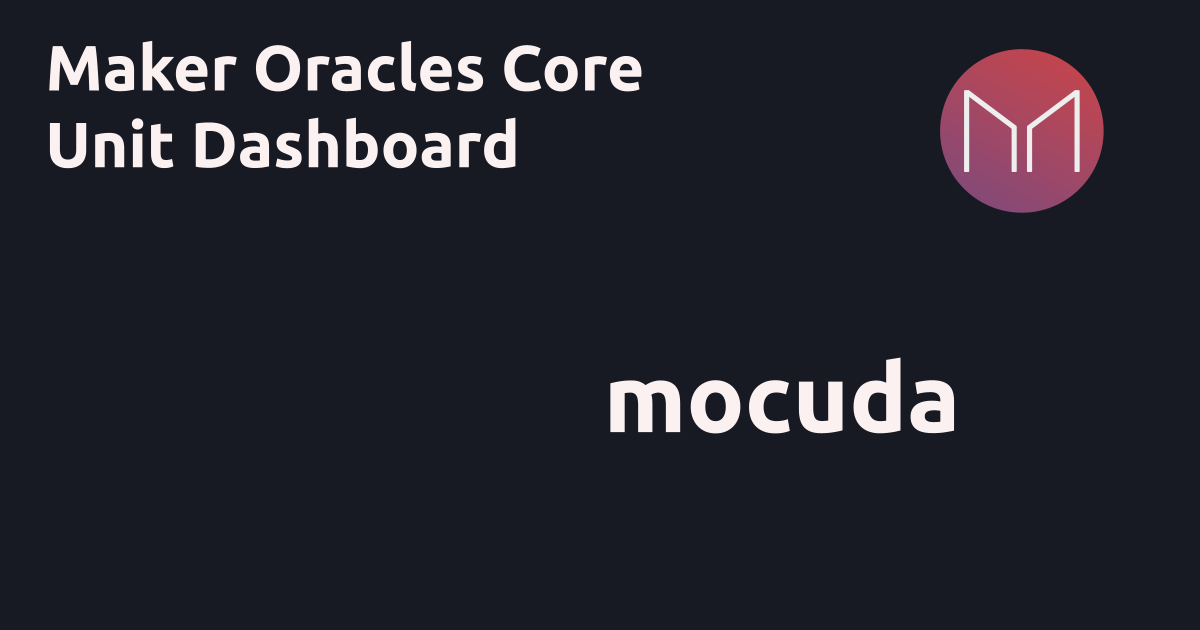
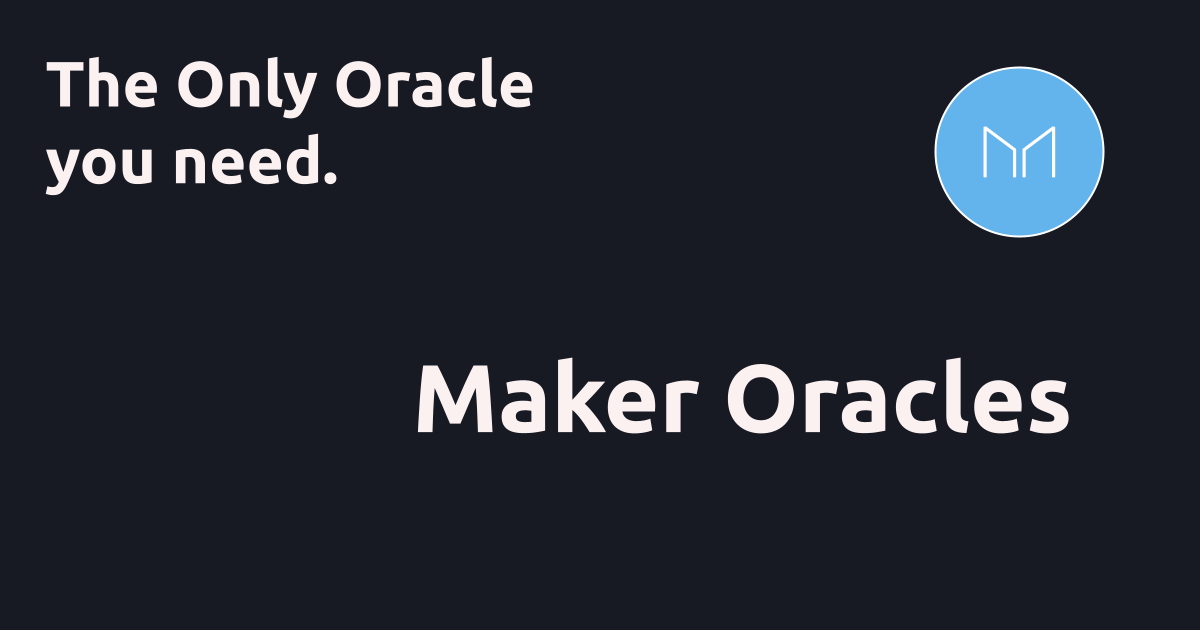
feat(fe): improve colors (#29)

Changed region(s): [[0.0308, 0.0603, 0.555, 0.3317], [0.3392, 0.573, 0.8942, 0.6937], [0.7708, 0.0603, 0.925, 0.3921]]

diff --git a/frontend/index.html b/frontend/index.html
@@ -2,9 +2,9 @@
 <html lang="en">
 	<head>
 		<meta charset="UTF-8" />
-		<link rel="icon" type="image/webp" href="/logo.webp" />
+		<link rel="icon" type="image/webp" href="/logo100.webp" />
 		<meta name="viewport" content="width=device-width, initial-scale=1.0" />
-		<title>MOCUDA</title>
+		<title>Maker Oracles</title>
 
 		<!-- 
         ==========================
@@ -12,37 +12,31 @@
         ==========================
         -->
 		<meta name="robots" content="index, follow" />
-		<meta name="title" content="Maker Oracles Core Unit Dashboard" />
+		<meta name="title" content="Maker Oracles" />
 		<meta
 			name="keywords"
-			content="ethereum, dai, maker, ocu, oracles, ethusd"
+			content="ethereum, dai, maker, ocu, oracles, ethusd, mainnet"
 		/>
 		<meta name="author" content="urbanisierung.eth" />
 		<meta name="publisher" content="urbanisierung.eth" />
 		<meta name="copyright" content="urbanisierung.eth" />
 		<meta name="audience" content="Everyone" />
-		<meta name="description" content="Maker Oracles Core Unit Dashboard" />
+		<meta name="description" content="Maker Oracles | The Only Oracle" />
 
 		<!-- OPEN GRAPH -->
 		<meta property="og:type" content="website" />
 		<meta property="og:url" content="https://mocuda.pages.dev" />
-		<meta property="og:title" content="Maker Oracles Core Unit Dashboard" />
-		<meta
-			property="og:description"
-			content="Maker Oracles Core Unit Dashboard"
-		/>
+		<meta property="og:title" content="Maker Oracles" />
+		<meta property="og:description" content="Maker Oracles | The Only Oracle" />
 		<meta property="og:image" content="https://mocuda.pages.dev/og.png" />
 
 		<!-- TWITTER -->
 		<meta property="twitter:card" content="summary_large_image" />
 		<meta property="twitter:url" content="https://mocuda.pages.dev" />
-		<meta
-			property="twitter:title"
-			content="Maker Oracles Core Unit Dashboard"
-		/>
+		<meta property="twitter:title" content="Maker Oracles" />
 		<meta
 			property="twitter:description"
-			content="Maker Oracles Core Unit Dashboard"
+			content="Maker Oracles | The Only Oracle"
 		/>
 		<meta property="twitter:image" content="https://mocuda.pages.dev/og.png" />
 		<meta name="twitter:site" content="@urbanisierung" />
@@ -51,9 +45,9 @@
 			{
 				"@context": "http://schema.org",
 				"@type": "type",
-				"name": "mocuda",
+				"name": "Maker Oracles",
 				"image": "https://mocuda.pages.dev/logo.webp",
-				"description": "Maker Oracles Core Unit Dashboard",
+				"description": "Maker Oracles | The Only Oracle",
 				"url": "https://mocuda.pages.dev",
 				"sameAs": ["https://twitter.com/urbanisierung"]
 			}

diff --git a/frontend/src/pages/feed/page.tsx b/frontend/src/pages/feed/page.tsx
@@ -26,6 +26,10 @@ import LineChart from '../../components/charts/LineChart'
 import CopyToClipboard from '../../components/copytoclipboard'
 import { AddressToConsumer } from '../../constants/consumers.const'
 import {
+	BOX_BORDER_COLOR_DARK,
+	BOX_BORDER_COLOR_LIGHT,
+} from '../../constants/style.const'
+import {
 	feedIcon,
 	formatDateTime,
 	prettyDuration,
@@ -66,7 +70,11 @@ export default observer(() => {
 						rounded={'md'}
 						boxShadow={{ base: 'lg' }}
 						p={5}
-						borderColor={colorMode === 'light' ? 'gray.200' : 'gray.600'}
+						borderColor={
+							colorMode === 'light'
+								? BOX_BORDER_COLOR_LIGHT
+								: BOX_BORDER_COLOR_DARK
+						}
 						borderWidth={1}
 					>
 						<VStack alignItems={'start'}>
@@ -132,7 +140,11 @@ export default observer(() => {
 						rounded={'md'}
 						boxShadow={{ base: 'lg' }}
 						p={5}
-						borderColor={colorMode === 'light' ? 'gray.200' : 'gray.600'}
+						borderColor={
+							colorMode === 'light'
+								? BOX_BORDER_COLOR_LIGHT
+								: BOX_BORDER_COLOR_DARK
+						}
 						borderWidth={1}
 					>
 						<Heading size={'sm'} p={5}>
@@ -161,12 +173,6 @@ export default observer(() => {
 													<Text textAlign={'center'} fontSize={'xs'}>
 														{oracle.data[0].price.toFixed(2)}
 													</Text>
-													{/* <Text fontSize={'xs'} textAlign={'center'}>
-														{prettyDuration(
-															new Date(),
-															new Date(oracle.data[0].date),
-														)}
-													</Text> */}
 												</VStack>
 											</Center>
 										</Box>
@@ -180,7 +186,11 @@ export default observer(() => {
 					rounded={'md'}
 					boxShadow={{ base: 'lg' }}
 					p={5}
-					borderColor={colorMode === 'light' ? 'gray.200' : 'gray.600'}
+					borderColor={
+						colorMode === 'light'
+							? BOX_BORDER_COLOR_LIGHT
+							: BOX_BORDER_COLOR_DARK
+					}
 					borderWidth={1}
 				>
 					<Heading size={'sm'} p={5}>
@@ -226,7 +236,11 @@ export function Consumers(options: {
 			rounded={'md'}
 			boxShadow={{ base: 'lg' }}
 			p={5}
-			borderColor={options.colorMode === 'light' ? 'gray.200' : 'gray.600'}
+			borderColor={
+				options.colorMode === 'light'
+					? BOX_BORDER_COLOR_LIGHT
+					: BOX_BORDER_COLOR_DARK
+			}
 			borderWidth={1}
 		>
 			<Heading size={'sm'} p={5}>

diff --git a/frontend/src/components/footer.tsx b/frontend/src/components/footer.tsx
@@ -12,6 +12,10 @@ import {
 import { observer } from 'mobx-react-lite'
 import { ReactNode } from 'react'
 import { useTranslation } from 'react-i18next'
+import {
+	BOX_BORDER_COLOR_DARK,
+	BOX_BORDER_COLOR_LIGHT,
+} from '../constants/style.const'
 import { useMst } from '../models/root'
 
 const ListHeader = ({ children }: { children: ReactNode }) => {
@@ -138,7 +142,7 @@ export default observer(() => {
 	return (
 		<Box
 			bg={useColorModeValue('gray.50', 'gray.900')}
-			color={useColorModeValue('gray.700', 'gray.200')}
+			color={useColorModeValue(BOX_BORDER_COLOR_DARK, BOX_BORDER_COLOR_LIGHT)}
 		>
 			<Container as={Stack} maxW={'6xl'} py={10}>
 				<SimpleGrid columns={{ base: 1, sm: 2, md: 4 }} spacing={8}>
@@ -166,19 +170,25 @@ export default observer(() => {
 					_before={{
 						content: '""',
 						borderBottom: '1px solid',
-						borderColor: useColorModeValue('gray.200', 'gray.700'),
+						borderColor: useColorModeValue(
+							BOX_BORDER_COLOR_LIGHT,
+							BOX_BORDER_COLOR_DARK,
+						),
 						flexGrow: 1,
 						mr: 8,
 					}}
 					_after={{
 						content: '""',
 						borderBottom: '1px solid',
-						borderColor: useColorModeValue('gray.200', 'gray.700'),
+						borderColor: useColorModeValue(
+							BOX_BORDER_COLOR_LIGHT,
+							BOX_BORDER_COLOR_DARK,
+						),
 						flexGrow: 1,
 						ml: 8,
 					}}
 				>
-					<Image src={'/logo.png'} alt={'mocuda'} w={10} h={10} />
+					<Image src={'/logo100.webp'} alt={'mocuda'} w={10} h={10} />
 				</Flex>
 				<Text pt={6} fontSize={'sm'} textAlign={'center'}>
 					© {new Date().getFullYear()} {t('footer.copyright')}

diff --git a/frontend/src/components/navbar.tsx b/frontend/src/components/navbar.tsx
@@ -43,19 +43,27 @@ export default observer(() => {
 				<Container maxW="6xl">
 					<Flex h={16} alignItems={'center'} justifyContent={'space-between'}>
 						<HStack>
-							<Box>
+							<HStack>
 								<Link onClick={() => router.goTo(routes.home)}>
-									<HStack>
-										<Img src={'/logo.webp'} h={10} />
-										<Text>{t('title')}</Text>
-									</HStack>
+									<Img src={'/logo100.webp'} h={10} alt="logo" />
 								</Link>
-							</Box>
+								<Button
+									colorScheme="blue"
+									variant="ghost"
+									onClick={() => router.goTo(routes.home)}
+								>
+									{t('title')}
+								</Button>
+							</HStack>
 
 							<Box display={{ base: 'none', md: 'inline-flex' }}>
-								<Link onClick={() => router.goTo(routes.consumers)}>
-									<Text>{t('pages.consumers.headings.title')}</Text>
-								</Link>
+								<Button
+									colorScheme="blue"
+									variant="ghost"
+									onClick={() => router.goTo(routes.consumers)}
+								>
+									{t('pages.consumers.headings.title')}
+								</Button>
 							</Box>
 						</HStack>
 
@@ -73,14 +81,9 @@ export default observer(() => {
 								</Button>
 
 								<Button
+									colorScheme="blue"
+									variant="outline"
 									display={{ base: 'none', md: 'inline-flex' }}
-									fontSize={'sm'}
-									fontWeight={600}
-									color={'black'}
-									bg={BASE_COLOR(400)}
-									_hover={{
-										bg: BASE_COLOR(300),
-									}}
 								>
 									{t('navbar.actions.request')}
 								</Button>

diff --git a/frontend/src/pages/consumers/page.tsx b/frontend/src/pages/consumers/page.tsx
@@ -6,14 +6,20 @@ import {
 	Skeleton,
 	Stack,
 	Text,
+	useColorMode,
 } from '@chakra-ui/react'
 import { observer } from 'mobx-react-lite'
 import { useTranslation } from 'react-i18next'
 import { ConsumerLogo } from '../../constants/consumers.const'
+import {
+	BOX_BORDER_COLOR_DARK,
+	BOX_BORDER_COLOR_LIGHT,
+} from '../../constants/style.const'
 import { useMst } from '../../models/root'
 
 export default observer(() => {
 	const { t } = useTranslation('app')
+	const { colorMode } = useColorMode()
 	const {
 		root: {
 			pages: { consumers: page },
@@ -34,7 +40,18 @@ export default observer(() => {
 			<>
 				<SimpleGrid columns={{ base: 2, md: 4 }} gap={5}>
 					{page.consumers().map((consumer) => (
-						<Box boxShadow={'lg'} rounded={'lg'} p={5} key={consumer.id}>
+						<Box
+							boxShadow={'lg'}
+							rounded={'lg'}
+							p={5}
+							key={consumer.id}
+							borderColor={
+								colorMode === 'light'
+									? BOX_BORDER_COLOR_LIGHT
+									: BOX_BORDER_COLOR_DARK
+							}
+							borderWidth={1}
+						>
 							<Stack>
 								<Image
 									src={ConsumerLogo(consumer)}

diff --git a/frontend/src/components/quicksearch/page.tsx b/frontend/src/components/quicksearch/page.tsx
@@ -14,6 +14,7 @@ import {
 } from '@chakra-ui/react'
 import { observer } from 'mobx-react-lite'
 import { useTranslation } from 'react-i18next'
+import { BASE_COLOR } from '../../constants/style.const'
 import { useMst } from '../../models/root'
 import { SEARCH_ID } from './model'
 
@@ -40,13 +41,17 @@ export default observer(() => {
 					{component.getSearchResults().map((action) => {
 						return (
 							<Box
-								bg={component.selectedId === action.id ? 'pink.300' : undefined}
+								bg={
+									component.selectedId === action.id
+										? BASE_COLOR(300)
+										: undefined
+								}
 								p={2}
 								rounded={'md'}
 								key={action.id}
-								onClick={action.action}
+								onClick={() => component.performAction(action.id)}
 								cursor={'pointer'}
-								_hover={{ bg: 'pink.300' }}
+								_hover={{ bg: BASE_COLOR(300) }}
 							>
 								<Text>
 									{action.title}

diff --git a/frontend/src/pages/home/page.tsx b/frontend/src/pages/home/page.tsx
@@ -13,6 +13,10 @@ import {
 import { observer } from 'mobx-react-lite'
 import { Instance } from 'mobx-state-tree'
 import { useTranslation } from 'react-i18next'
+import {
+	BOX_BORDER_COLOR_DARK,
+	BOX_BORDER_COLOR_LIGHT,
+} from '../../constants/style.const'
 import { feedIcon, prettyDuration } from '../../helpers/ui'
 import { EventCounter } from '../../models/api/subgraphlite'
 import { useMst } from '../../models/root'
@@ -56,7 +60,9 @@ export default observer(() => {
 				onClick={() => router.goTo(routes.feed, { address: feed.name })}
 				cursor={'pointer'}
 				key={feed.id}
-				borderColor={colorMode === 'light' ? 'gray.200' : 'gray.600'}
+				borderColor={
+					colorMode === 'light' ? BOX_BORDER_COLOR_LIGHT : BOX_BORDER_COLOR_DARK
+				}
 				borderWidth={1}
 			>
 				<SimpleGrid columns={{ base: 2, sm: 3 }}>

diff --git a/frontend/src/components/quicksearch/model.ts b/frontend/src/components/quicksearch/model.ts
@@ -88,14 +88,16 @@ export const QuickSearchComponent = types
 				}
 			}
 			if (event.key === 'Enter') {
-				const action = ACTIONS.find(
-					(currentAction) => currentAction.id === self.selectedId,
-				)
-				if (action) {
-					action.action()
-				}
-				this.close()
+				this.performAction(self.selectedId)
 			}
+		},
+
+		performAction(id: string) {
+			const action = ACTIONS.find((currentAction) => currentAction.id === id)
+			if (action) {
+				action.action()
+			}
+			this.close()
 		},
 
 		addAction(action: QuickSearchAction) {

diff --git a/frontend/src/constants/style.const.ts b/frontend/src/constants/style.const.ts
@@ -1,6 +1,13 @@
-export const PRIMARY_COLOR_1_HEX = '#904970'
-export const PRIMARY_COLOR_2_HEX = '#B54556'
+export const PRIMARY_COLOR_1_HEX = '#63B3ED'
+export const PRIMARY_COLOR_2_HEX = '#BEE3F8'
 
 export const BASE_COLOR = (type: number) => {
-	return `red.${type}`
+	return `blue.${type}`
 }
+
+export const BOX_BORDER_COLOR = (type: number) => {
+	return `gray.${type}`
+}
+
+export const BOX_BORDER_COLOR_LIGHT = BOX_BORDER_COLOR(200)
+export const BOX_BORDER_COLOR_DARK = BOX_BORDER_COLOR(700)

diff --git a/frontend/src/pages/consumers/model.ts b/frontend/src/pages/consumers/model.ts
@@ -1,3 +1,4 @@
+import { t } from 'i18next'
 import { types } from 'mobx-state-tree'
 import { getRootStore } from '../../models/helpers'
 
@@ -7,6 +8,10 @@ export const ConsumersPage = types
 		// INITIALIZATION
 		initialisePage() {
 			const { api } = getRootStore(self)
+			api.helmet.updateTitle({
+				title: t('pages.consumers.headings.title'),
+				concatenateAppname: true,
+			})
 			api.makerOracles.getOracles()
 		},
 	}))
